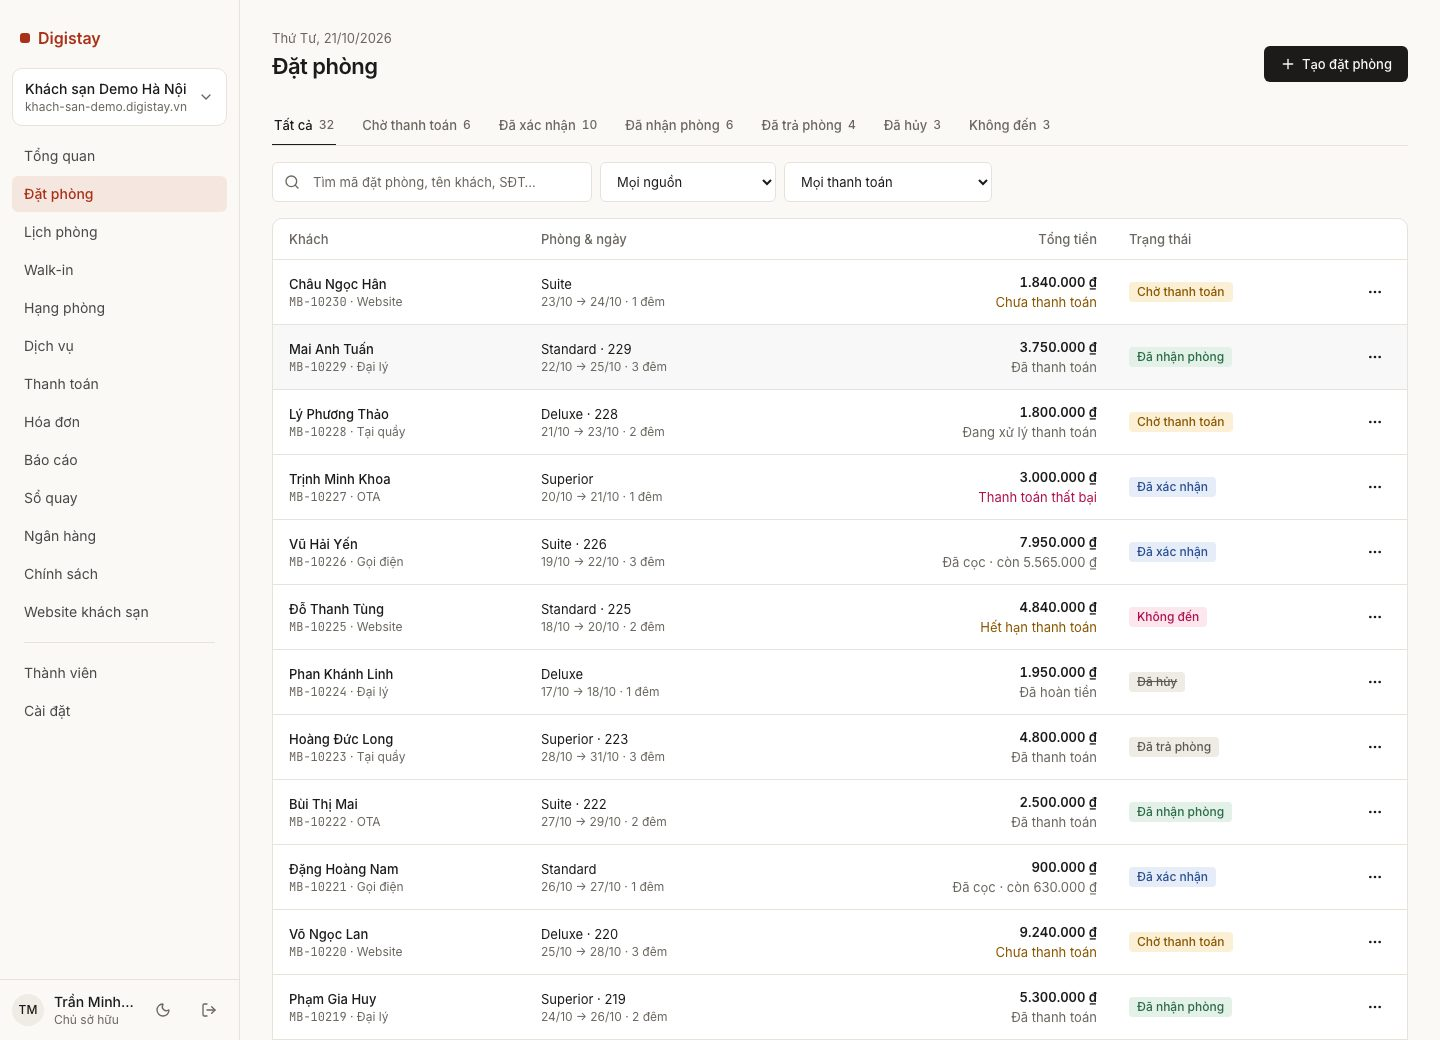
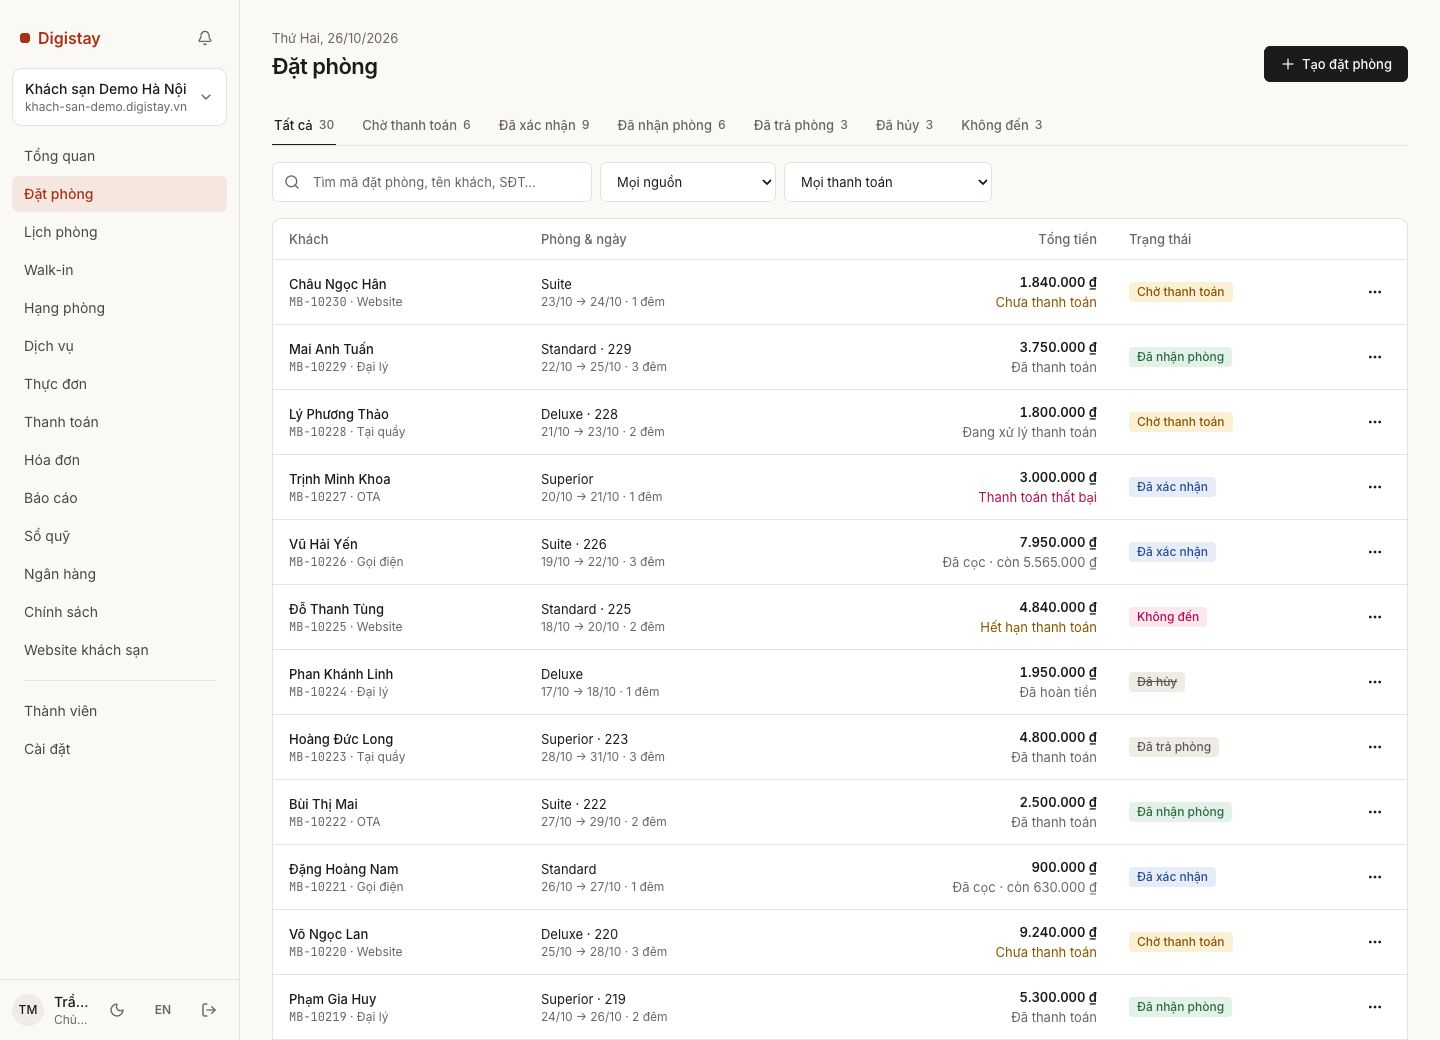
feat(marketing): every home screenshot in the dark theme too, reshot from today's app
In the dark theme the payments screenshot (and both hotel-site ones)
stayed light; only the bookings one had a dark copy. All four features
now have a light and a dark screenshot, reshot at 1440 px from the
current app (the dashboard frame changed since 21/10) on a copy of the
demo database: the demo hotel's random picsum photos (sails, a concert)
replaced with Unsplash hotel photos, its site published (no preview
banner), the two e2e test bookings removed.

diff --git a/src/app/(marketing)/page.tsx b/src/app/(marketing)/page.tsx
@@ -29,12 +29,15 @@ export async function generateMetadata(): Promise<Metadata> {
  */
 const HERO_WIDTHS = [768, 1280, 1920, 2560] as const
 
-/** The screenshots in public/marketing are the real app (demo data), 1440 px wide. */
+/**
+ * The screenshots in public/marketing are the real app (demo data, photos from Unsplash), 1440 px
+ * wide, each in the light and the dark theme; the page shows the one matching its own.
+ */
 const FEATURES = [
-  { id: 'site', points: 3, url: 'khach-san-demo.digistay.vn', src: '/marketing/site-home.jpg', height: 2016 },
-  { id: 'booking', points: 3, url: 'khach-san-demo.digistay.vn/rooms/standard', src: '/marketing/site-room.jpg', height: 880 },
+  { id: 'site', points: 3, url: 'khach-san-demo.digistay.vn', src: '/marketing/site-home.jpg', darkSrc: '/marketing/site-home-dark.jpg', height: 2016 },
+  { id: 'booking', points: 3, url: 'khach-san-demo.digistay.vn/rooms/standard', src: '/marketing/site-room.jpg', darkSrc: '/marketing/site-room-dark.jpg', height: 880 },
   { id: 'admin', points: 4, url: 'digistay.vn/workspace/…/bookings', src: '/marketing/admin-bookings.jpg', darkSrc: '/marketing/admin-bookings-dark.jpg', height: 1040 },
-  { id: 'money', points: 3, url: 'digistay.vn/workspace/…/payments', src: '/marketing/admin-payments.jpg', height: 1040 },
+  { id: 'money', points: 3, url: 'digistay.vn/workspace/…/payments', src: '/marketing/admin-payments.jpg', darkSrc: '/marketing/admin-payments-dark.jpg', height: 1040 },
 ] as const
 
 const FAQ = ['q1', 'q2', 'q3', 'q4', 'q5', 'q6'] as const
@@ -132,7 +135,7 @@ export default async function HomePage() {
                   <BrowserFrame
                     url={f.url}
                     src={f.src}
-                    darkSrc={'darkSrc' in f ? f.darkSrc : undefined}
+                    darkSrc={f.darkSrc}
                     alt={t(`features.${f.id}.alt`)}
                     width={1440}
                     height={f.height}
